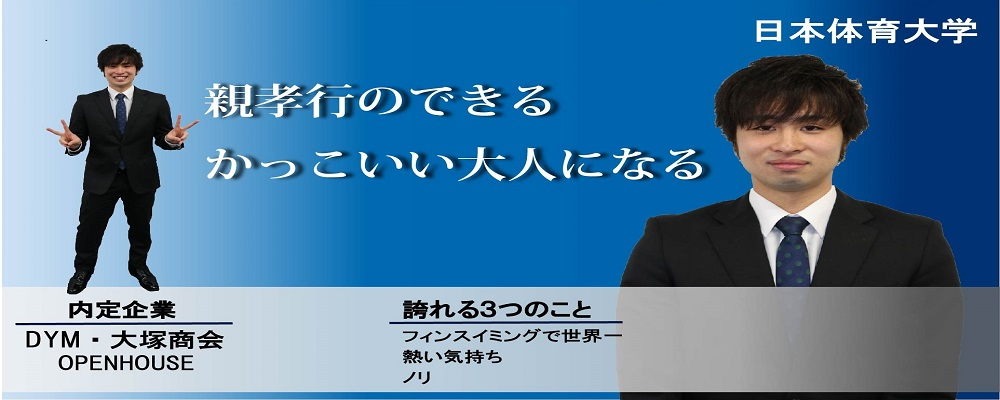
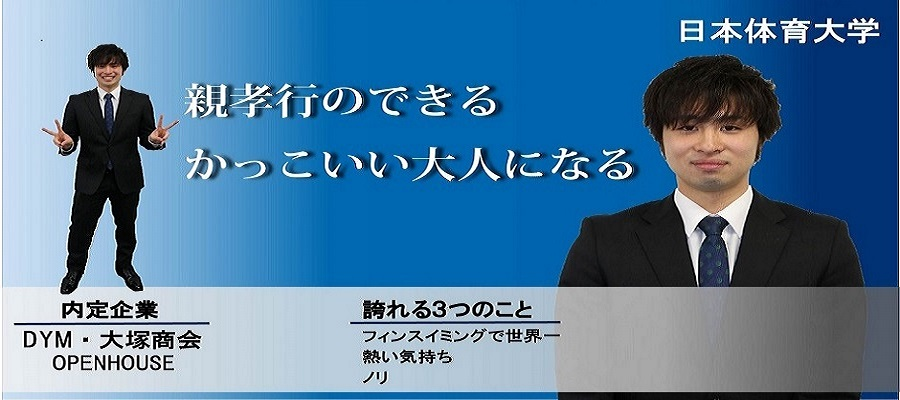
sa

diff --git a/miyahara.html b/miyahara.html
@@ -55,7 +55,7 @@
     </nav>
 
     <!-- Page Header -->
-    <header class="masthead" style="background-image: url('img/miyahara/miyakawa.jpg')"> <!-- ヘッダーの背景を消して左右に画像を張りその真ん中にそれぞれ文章を書きたい  -->
+    <header class="masthead" style="background-image: url('img/miyahara/miyakawapro1.jpg')"> <!-- ヘッダーの背景を消して左右に画像を張りその真ん中にそれぞれ文章を書きたい  -->
       <div class="container">
         <div class="row">
           <div class="col-md-6">

diff --git a/matushita.html b/matushita.html
@@ -62,13 +62,13 @@
           <div class="col-md-6">
             <div class="site-heading">
               <h2>株式会社</h2>
-              <span class="subheading">何かしらの文</span>
+              <span class="subheading"></span>
             </div>
           </div>
          <div class="col-md-6">
             <div class="site-heading">
               <h2>株式会社</h2>
-              <span class="subheading">何かしらの文</span>
+              <span class="subheading"></span>
             </div>
           </div>
         </div>
